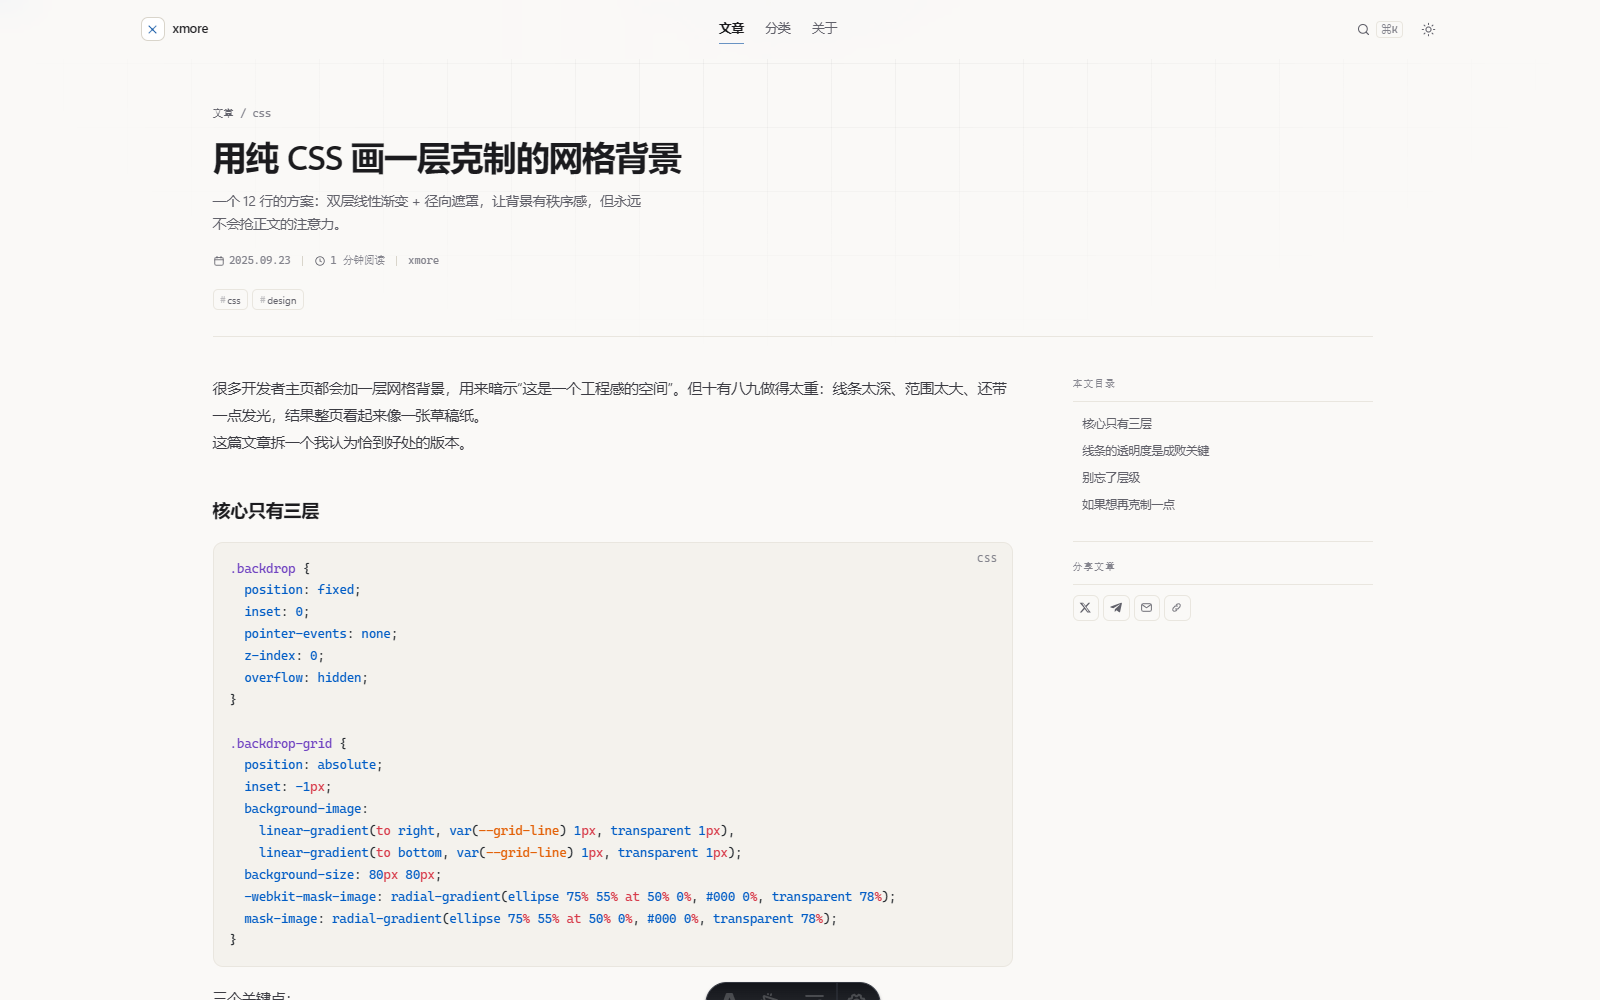
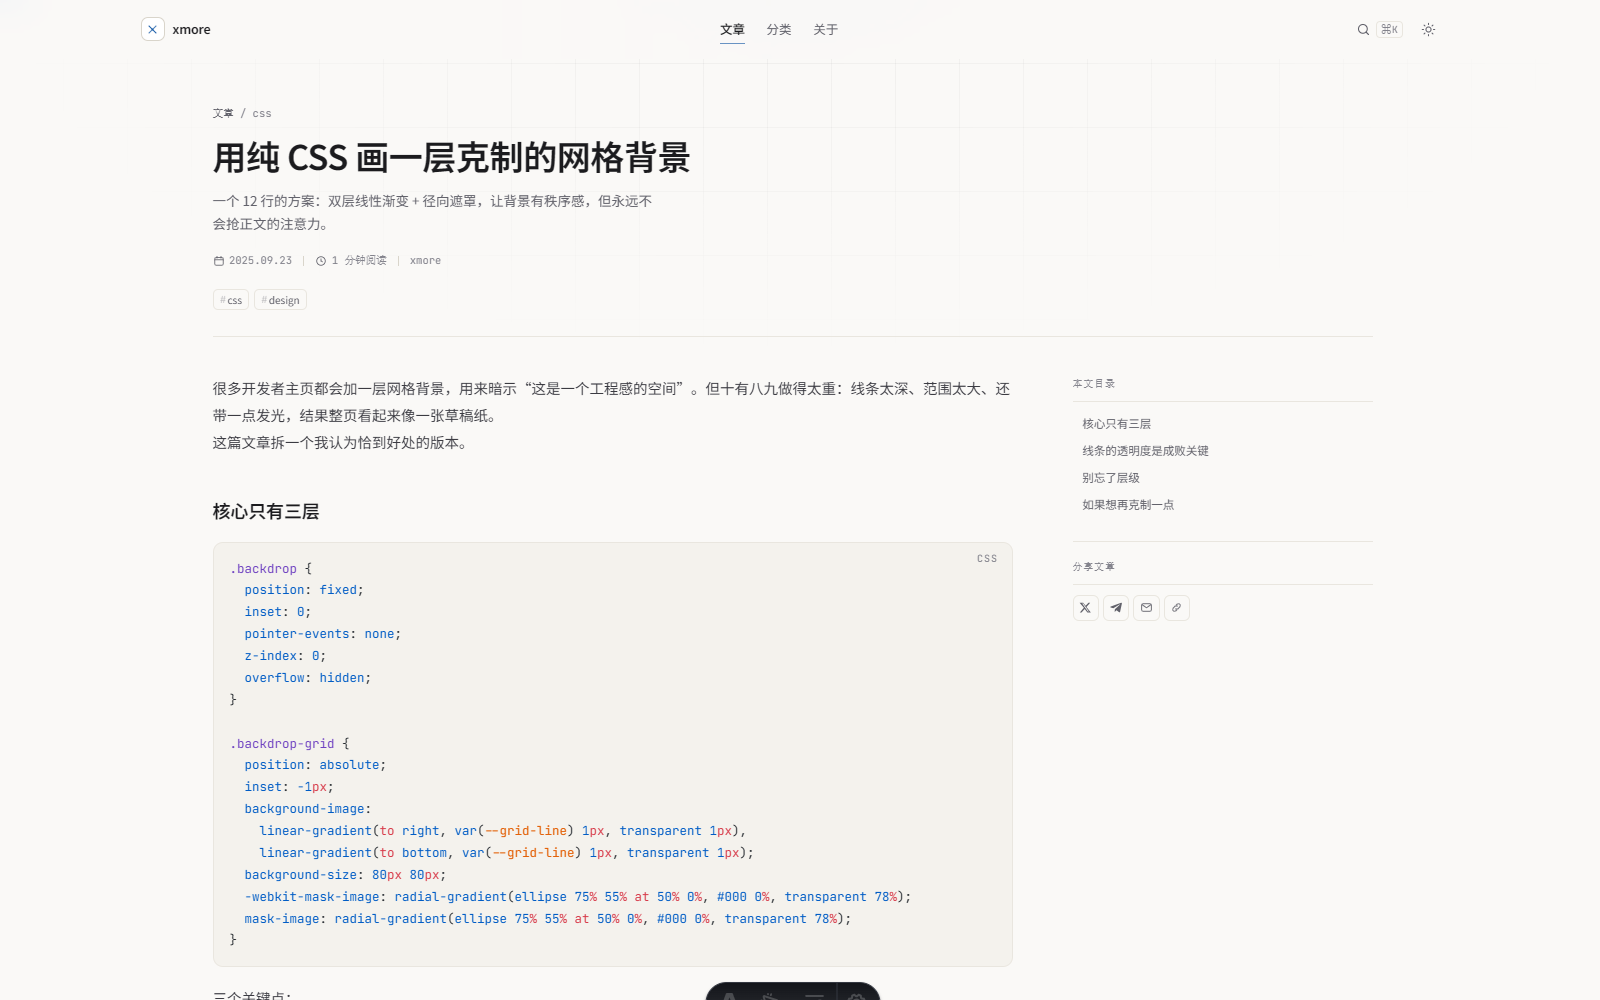
feat: 引入 Noto Sans SC / JetBrains Mono 自托管字体并适配中文排版
- 新增 fonts.css，通过 @fontsource-variable 自托管字体，不依赖 Google Fonts
- 正文 Noto Sans SC Variable：中文与拉丁共用一套字形，中英混排不跳字
- 等宽 JetBrains Mono Variable：代码块、日期、元信息
- 字体样式含 100+ 条 unicode-range 声明，单独产出并异步加载，避免阻塞首屏
  （主样式 gzip 7.1KB，字体样式 110KB 异步）
- 中文排版适配：标题字距 -0.028em → -0.012em、行高 1.2 → 1.28，
  卡片/文章标题字距同步放松，避免汉字粘连
- 启用 text-autospace / text-spacing-trim，中英之间自动留白、行首标点压缩
- 更新各页预览截图

diff --git a/src/styles/tokens.css b/src/styles/tokens.css
@@ -52,11 +52,13 @@
   --fs-4xl: clamp(1.5625rem, 1.6vw + 1.1875rem, 2.125rem); /* 25-34px  · 文章标题 */
   --fs-hero: clamp(1.8125rem, 3.2vw + 1rem, 2.8125rem); /* 29-45px  · 首页大标题 */
 
-  --lh-tight: 1.2;
+  /* 汉字字面框几乎填满 em，行高与字距都要比拉丁文更宽松：
+     标题行高 1.28、字距 -0.012em，再紧就会"粘字"。 */
+  --lh-tight: 1.28;
   --lh-snug: 1.45;
   --lh-body: 1.85;
 
-  --tracking-tight: -0.028em;
+  --tracking-tight: -0.012em;
   --tracking-wide: 0.12em;
 
   /* ---------- 3. 间距（4pt 刻度） ---------- */
@@ -83,11 +85,13 @@
   --radius-lg: 14px;
 
   /* ---------- 5. 字体 ---------- */
-  --font-sans: "Inter", "Segoe UI Variable Text", "Segoe UI", -apple-system,
-    BlinkMacSystemFont, "PingFang SC", "Hiragino Sans GB", "Microsoft YaHei UI",
-    "Microsoft YaHei", "Noto Sans SC", sans-serif;
-  --font-mono: ui-monospace, "SF Mono", "JetBrains Mono", "Cascadia Mono", Menlo,
-    Consolas, "Liberation Mono", monospace;
+  /* 自托管 Noto Sans SC 打头：中文与拉丁共用一套字形，中英混排不会出现
+     "英文比中文更瘦" 的割裂感；字体加载失败时逐级回退到系统黑体。 */
+  --font-sans: "Noto Sans SC Variable", "PingFang SC", "Hiragino Sans GB",
+    "Microsoft YaHei UI", "Microsoft YaHei", -apple-system, BlinkMacSystemFont,
+    "Segoe UI", "Noto Sans SC", sans-serif;
+  --font-mono: "JetBrains Mono Variable", ui-monospace, "SF Mono", "Cascadia Mono",
+    Menlo, Consolas, "Liberation Mono", monospace;
 
   /* ---------- 6. 动效 ---------- */
   --ease: cubic-bezier(0.22, 0.8, 0.24, 1);

diff --git a/src/styles/fonts.css b/src/styles/fonts.css
@@ -1,0 +1,20 @@
+/* ==========================================================================
+   字体层：自托管 Web 字体（不依赖 Google Fonts，国内可直连）
+   --------------------------------------------------------------------------
+   正文字体：Noto Sans SC Variable —— 中文与拉丁统一字形，中英混排不跳字。
+   等宽字体：JetBrains Mono Variable —— 代码块、日期与元信息。
+
+   两者都由 @fontsource-variable 提供 woff2 分片（unicode-range），
+   浏览器只会下载页面实际用到的那几片，未覆盖的字符自动回退系统字体。
+   font-display: swap 保证首屏文字立刻可见，字体就绪后再替换。
+
+   ── 关于体积 ────────────────────────────────────────────────────────────
+   汉字字库天然很大：实测一篇文章首屏会拉取约 17 个分片、约 900 KB
+   （之后长期缓存，翻页时复用）。如果更看重极致的首屏体积，可以切到
+   "轻量模式"：注释掉下面的 Noto Sans SC，让中文回退到系统黑体
+   （macOS/iOS 的 PingFang SC、Windows 的微软雅黑、Android 的 Noto Sans CJK
+   都是高质量字库），只保留 JetBrains Mono，字体开销会降到约 40 KB。
+   ========================================================================== */
+
+@import "@fontsource-variable/noto-sans-sc";
+@import "@fontsource-variable/jetbrains-mono";

diff --git a/src/styles/components.css b/src/styles/components.css
@@ -89,7 +89,7 @@ kbd {
 .featured-title {
   font-size: var(--fs-2xl);
   font-weight: 600;
-  letter-spacing: -0.018em;
+  letter-spacing: -0.01em;
   line-height: 1.4;
   text-wrap: balance;
   overflow-wrap: anywhere;
@@ -189,7 +189,7 @@ kbd {
   margin: 0;
   font-size: var(--fs-xl);
   font-weight: 550;
-  letter-spacing: -0.01em;
+  letter-spacing: -0.005em;
   line-height: 1.5;
   overflow-wrap: anywhere;
   transition: color var(--dur-1);
@@ -758,7 +758,7 @@ html.is-search-open {
   margin: 0;
   font-size: var(--fs-xl);
   font-weight: 600;
-  letter-spacing: -0.015em;
+  letter-spacing: -0.008em;
   line-height: 1.35;
   color: var(--fg);
   transition: color var(--dur-2);

diff --git a/src/styles/main.css b/src/styles/main.css
@@ -9,6 +9,10 @@
    4. components.css  按钮、卡片、列表、标签、目录、分享、搜索、回到顶部
    5. prose.css       正文排版、代码块、表格、引用、图片
 
+   字体样式（fonts.css）不在这里引入：它有 100 多条 unicode-range 声明，
+   体积远大于其余样式，因此单独产出、以非阻塞方式加载，
+   避免拖慢首屏渲染。见 BaseLayout.astro。
+
    Vite 会在构建时把 @import 合并成单个 CSS 文件，产出仍然只有 1 个请求。
    ========================================================================== */
 

diff --git a/src/styles/base.css b/src/styles/base.css
@@ -28,6 +28,10 @@ body {
   line-height: 1.7;
   font-feature-settings: "kern" 1, "liga" 1, "calt" 1;
   font-optical-sizing: auto;
+  /* 中文排版：汉字与拉丁/数字之间自动补 1/4 字宽，行首全角标点自动压缩。
+     不支持的浏览器会直接忽略这两行，不影响原有排版。 */
+  text-autospace: normal;
+  text-spacing-trim: trim-start;
   -webkit-font-smoothing: antialiased;
   -moz-osx-font-smoothing: grayscale;
   overflow-x: hidden;

diff --git a/src/styles/prose.css b/src/styles/prose.css
@@ -33,14 +33,14 @@
 .prose h2 {
   font-size: 1.125rem;
   line-height: 1.45;
-  letter-spacing: -0.015em;
+  letter-spacing: -0.008em;
   font-weight: 600;
 }
 
 .prose h3 {
   font-size: 1rem;
   line-height: 1.5;
-  letter-spacing: -0.01em;
+  letter-spacing: -0.005em;
   font-weight: 600;
 }
 
